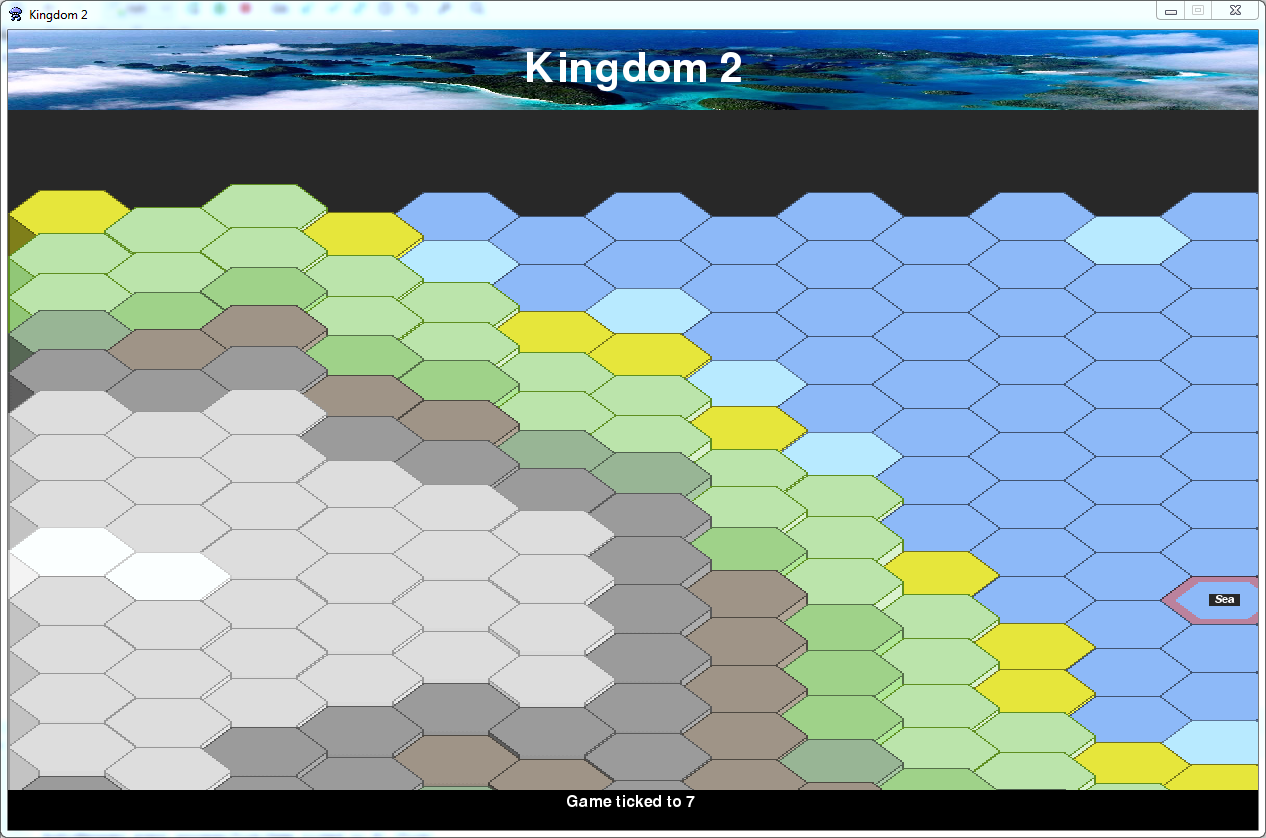
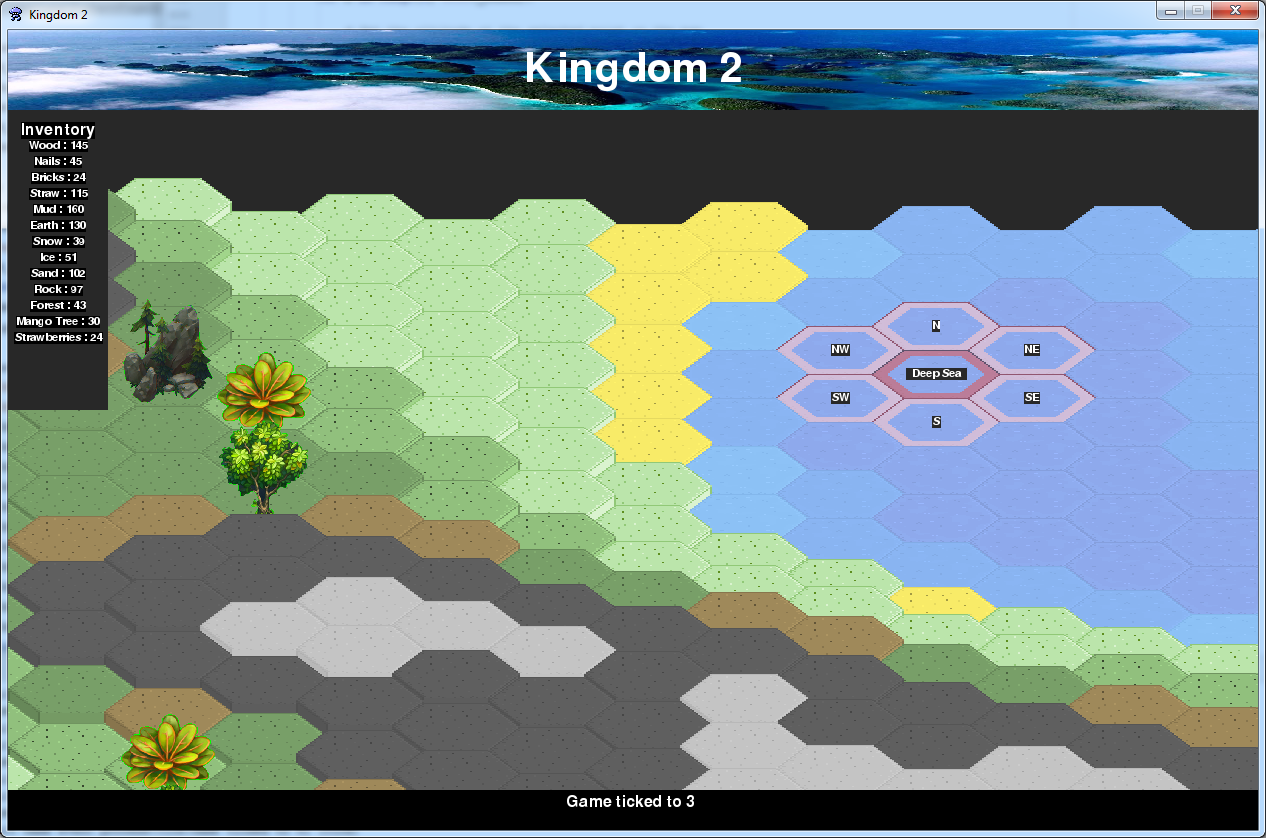
updated screenshots

diff --git a/model/building_blocks.py b/model/building_blocks.py
@@ -374,8 +374,8 @@ class WorldMap:
         TILE_FOREST: 1.2,
         TILE_EARTH: 1.5,
         TILE_ROCK: 1.9,
-        TILE_ICE: 2.2,
-        TILE_SNOW: 2.3
+        TILE_ICE: 2.1,
+        TILE_SNOW: 2.2
 
     }
 
@@ -458,13 +458,14 @@ class WorldMap:
         # loop through all points on the map...
         for y in range(0, self.height):
             for x in range(0, self._width):
+                # For all border riles set altitude to max
+                if self.get(x,y) == WorldMap.TILE_BORDER:
+                    self.set_altitude(self.altitude_max, x, y)
+
                 # For all altitudes less than zero (underwater) set to zero to create flat sea surface
-                if self.get_altitude(x, y) <= 0:
+                elif self.get_altitude(x, y) <= 0:
                     self.set_altitude(0, x, y)
 
-                # For all border riles set altitude to max
-                elif self.get(x,y) == WorldMap.TILE_BORDER:
-                    self.set_altitude(self.altitude_max, x, y)
 
         print("New altitude Data: mean:{0:.3f} stdev:{1:.3f} min:{2:.3f} max:{3:.3f}".format(self.altitude_mean,
                                                           self.altitude_std,

diff --git a/view/view.py b/view/view.py
@@ -73,8 +73,8 @@ class ImageManager:
             model.WorldMap.TILE_SEA: "3dhexagonBlueNew.png",
             model.WorldMap.TILE_DEEP_SEA: "3dhexagonDarkBlueNew.png",
             model.WorldMap.TILE_SHALLOWS: "3dhexagonLightBlueNew.png",
-            model.WorldMap.TILE_ICE: "3dhexagonLightGreyNew.png",
-            model.WorldMap.TILE_ROCK: "3dhexagonGreyNew.png",
+            model.WorldMap.TILE_ICE: "3dhexagonGreyNew.png",
+            model.WorldMap.TILE_ROCK: "3dhexagonDarkGreyNew.png",
             model.WorldMap.TILE_SNOW: "3dhexagonWhiteNew.png",
             model.WorldMap.TILE_EARTH: "3dhexagonBrownNew.png",
             model.WorldMap.TILE_SAND: "3dhexagonYellowNew.png",
@@ -772,7 +772,7 @@ class GameOverView(BaseView):
 
 class InventoryView(BaseView):
 
-    FILL_COLOUR = Colours.GREEN
+    FILL_COLOUR = Colours.DARK_GREY
     FG_COLOUR = Colours.WHITE
     BG_COLOUR = Colours.BLACK
     ITEM_TEXT_FONT_SIZE = 16
